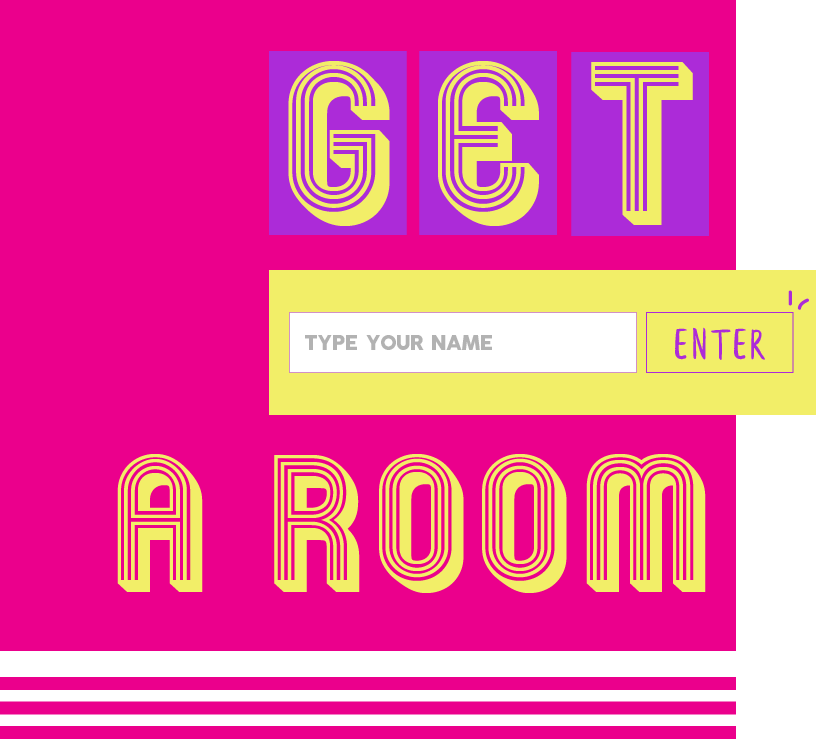
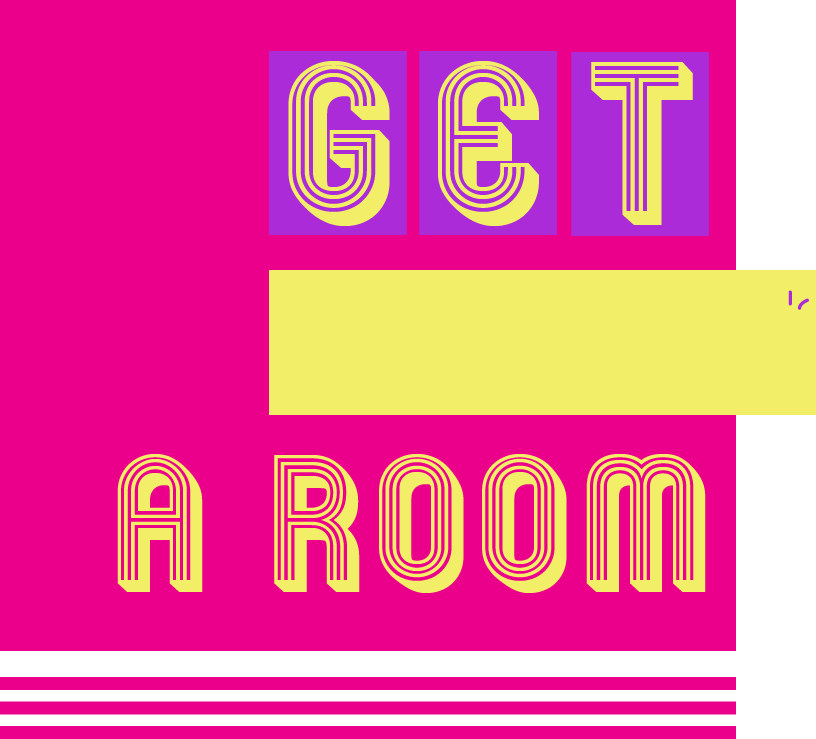
new login

Changed region(s): [[0.337, 0.4046, 0.7966, 0.5291], [0.8272, 0.4357, 0.9498, 0.498]]

diff --git a/index.js b/index.js
@@ -3,7 +3,7 @@ const hbs = require('hbs');
 const fs = require('fs');
 var bodyParser = require('body-parser')
 
-const port = process.env.PORT || 8080;
+const port = process.env.PORT || 8000;
 // const app = express();
 var app = require('express')();
 
@@ -23,8 +23,11 @@ var publicDir = require('path').join(__dirname,'/views');
 app.use(express.static(publicDir));
 
 
+
 // hbs.registerPartials(__dirname + '/views/');
 // hbs.registerPartials(__dirname + '/');
+//do post method, redirect to questions page, and change user1 name
+
 
 app.set('view engine', 'hbs');
 
@@ -33,10 +36,11 @@ var user2 = 'gheff';
 var sq = []
 // bodyparser setup
 var bodyParser = require('body-parser')
+
 app.use(bodyParser.urlencoded({
     extended: true
 }));
-hbs.use(bodyParser.json())
+app.use(bodyParser.json());
 
 
 server.listen(port, () => {
@@ -45,8 +49,13 @@ server.listen(port, () => {
 });
 
 
+
 app.get('/', (request, response) => {
     response.render('home.hbs')
+});
+app.post("/", function (req, res) {
+    console.log(req.body.user.name)
+    user1 = req.body.user.name
 });
 
 app.get('/chatroom', (request, response) => {

diff --git a/views/stylemain.css b/views/stylemain.css
@@ -1,0 +1,42 @@
+
+#main{
+  background-image:url('main.png') ;
+  background-repeat: no-repeat;
+  background-size: cover;
+  left: 0%;
+  right: 0%;
+  bottom:0%;
+  top: 0%;
+  position: absolute;
+  width: 70%;
+  height: 100%;
+}
+#text{
+  top: 53%;
+  right:22%;
+  bottom: 0%;
+  position: absolute;
+  width: 375px;
+  height: 8%;
+  text-size-adjust: 40px;
+  font-size-adjust: 80px;
+  
+}
+#button{
+  background-image:url('button.png') ;
+  background-repeat: no-repeat;
+  top: 53%;
+  right:31%;
+  bottom: 0%;
+  position: absolute;
+  width: 155px;
+  height: 10%;
+  text-size-adjust: 40px;
+  font-size-adjust: 80px;
+}
+#button:hover{
+  background-color:white}
+input[type=text]{
+    font-size: 34px;
+ 
+}
